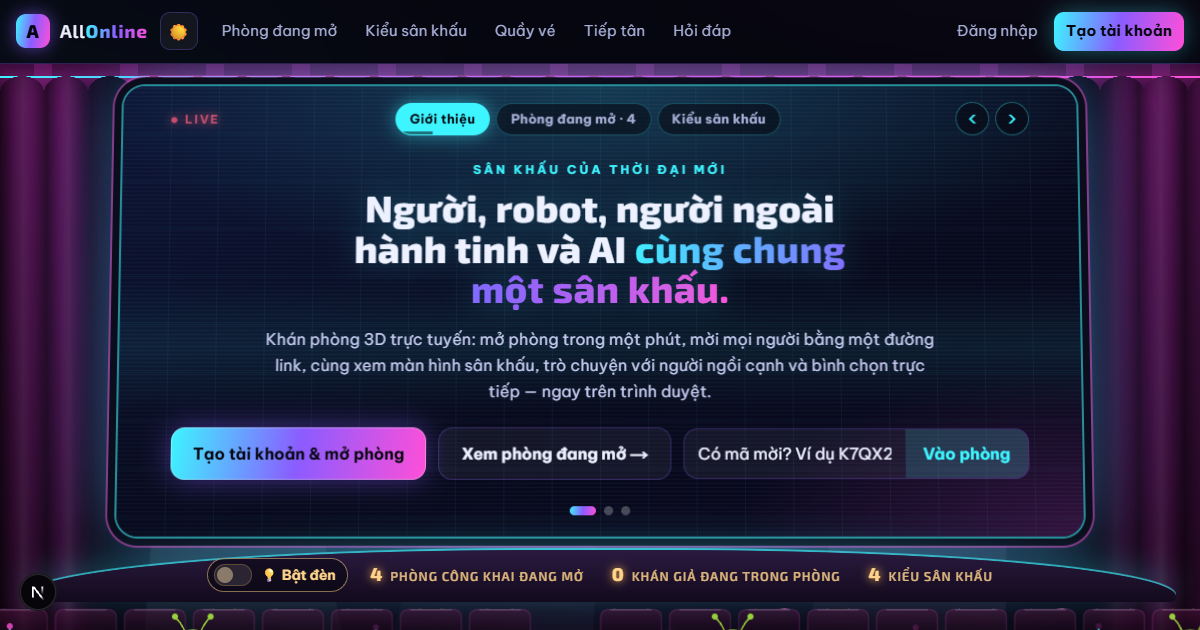
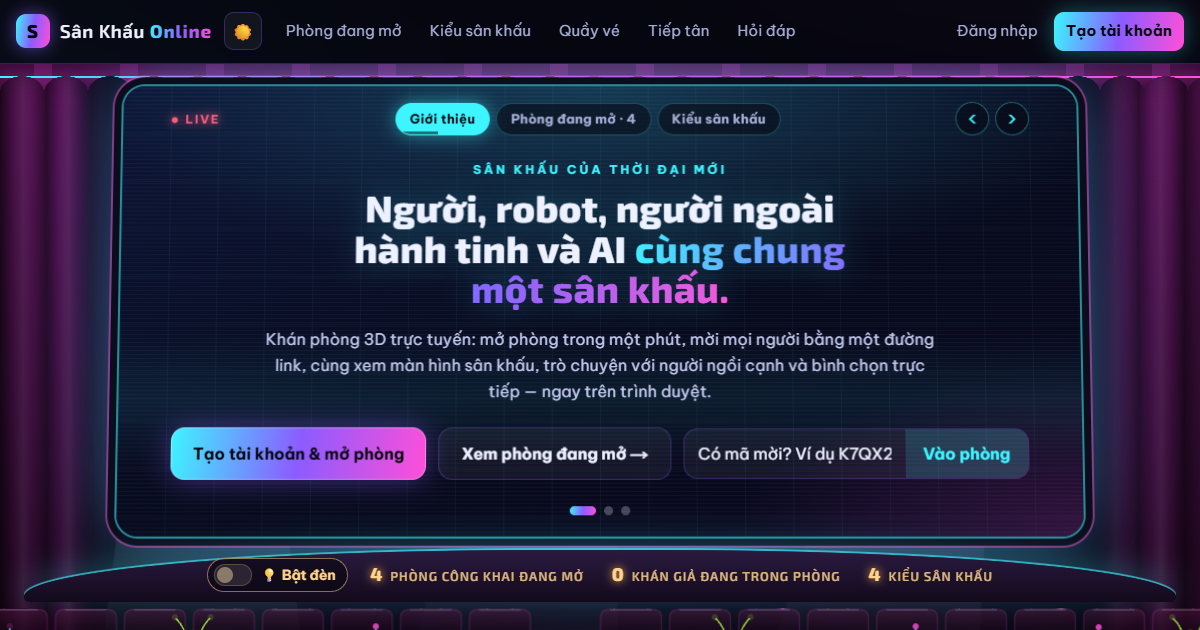
chore(brand): AllOnline → Sân Khấu Online in every user-facing text
Site name / titles / Open Graph / share image, navbar logo (S), footer, FAQ, room
creation, account and login pages, Zalo bot replies, calendar PRODID. Internal
identifiers (package, env vars, service names, storage keys, bucket) unchanged.

diff --git a/server/zalo/bot.ts b/server/zalo/bot.ts
@@ -37,7 +37,7 @@ export function parseCommand(text: string): Command {
 }
 
 const HELP = [
-  "Chào bạn, mình là trợ lý AllOnline 🤖. Nhắn một trong các lệnh:",
+  "Chào bạn, mình là trợ lý Sân Khấu Online 🤖. Nhắn một trong các lệnh:",
   "• ĐĂNG KÝ hoặc ĐĂNG NHẬP — nhận link đăng nhập (không cần mật khẩu)",
   "• LK 123456 — liên kết tài khoản trên web với Zalo (lấy mã ở trang Tài khoản)",
   "• NHẮC <mã mời> — nhắc bạn trước giờ sự kiện; HỦY NHẮC <mã mời> để bỏ",
@@ -57,7 +57,7 @@ export interface ZaloEvent {
 }
 
 /**
- * The AllOnline Zalo OA bot: sign up / sign in with a one-time link, link a web account,
+ * The Sân Khấu Online Zalo OA bot: sign up / sign in with a one-time link, link a web account,
  * event reminders, payment status, and payment screenshots (read by Claude, matched with the
  * bank feed; a screenshot alone opens a room only below the app owner's auto-approve limit).
  */
@@ -105,7 +105,7 @@ export class ZaloBot {
   async handle(e: ZaloEvent) {
     const oaUid = e.sender?.id ?? e.follower?.id;
     if (!oaUid) return;
-    if (e.event_name === "follow") return this.say(oaUid, "Cảm ơn bạn đã quan tâm AllOnline — sân khấu 3D trực tuyến!\n\n" + HELP);
+    if (e.event_name === "follow") return this.say(oaUid, "Cảm ơn bạn đã quan tâm Sân Khấu Online — sân khấu 3D trực tuyến!\n\n" + HELP);
     if (e.event_name === "user_send_text") return this.onText(oaUid, e.message?.text ?? "", e.user_id_by_app);
     if (e.event_name === "user_send_image") {
       const url = e.message?.attachments?.find((a) => a.type === "image")?.payload?.url;
@@ -144,7 +144,7 @@ export class ZaloBot {
         }
         return this.say(
           oaUid,
-          `${created ? `🎉 Đã tạo tài khoản “${user.display_name}”.` : `Chào ${user.display_name}!`}\nBấm link để đăng nhập AllOnline (dùng một lần, hết hạn sau 10 phút):\n${this.loginUrl(user.id)}`,
+          `${created ? `🎉 Đã tạo tài khoản “${user.display_name}”.` : `Chào ${user.display_name}!`}\nBấm link để đăng nhập Sân Khấu Online (dùng một lần, hết hạn sau 10 phút):\n${this.loginUrl(user.id)}`,
         );
       }
       case "link": {
@@ -152,7 +152,7 @@ export class ZaloBot {
         if (!v || v.exp < Date.now()) return this.say(oaUid, "Mã liên kết không đúng hoặc đã hết hạn. Lấy mã mới ở trang Tài khoản trên web nhé.");
         this.linkCodes.delete(cmd.code);
         await linkIdentity(db, "zalo_oa", oaUid, v.userId);
-        return this.say(oaUid, "✅ Đã liên kết Zalo với tài khoản AllOnline của bạn. Từ giờ bot sẽ nhắc sự kiện và báo thanh toán ở đây.");
+        return this.say(oaUid, "✅ Đã liên kết Zalo với tài khoản Sân Khấu Online của bạn. Từ giờ bot sẽ nhắc sự kiện và báo thanh toán ở đây.");
       }
       case "remind": {
         const user = (await this.account(oaUid, appUid)) ?? (await findOrCreateZaloUser(db, "zalo_oa", oaUid, (await this.deps.sender.profile(oaUid))?.name ?? "Người dùng Zalo")).user;

diff --git a/src/app/account/page.tsx b/src/app/account/page.tsx
@@ -101,7 +101,7 @@ function Account({ me }: { me: Me }) {
       <div className="card stack">
         <h1>Tài khoản</h1>
         {params?.get("linked") === "zalo" && <p className="notice ok">Đã liên kết Zalo.</p>}
-        {params?.get("error") === "zalo_taken" && <p className="notice error">Tài khoản Zalo này đã gắn với một tài khoản AllOnline khác.</p>}
+        {params?.get("error") === "zalo_taken" && <p className="notice error">Tài khoản Zalo này đã gắn với một tài khoản Sân Khấu Online khác.</p>}
         <form
           className="row"
           onSubmit={async (e) => {
@@ -129,7 +129,7 @@ function Account({ me }: { me: Me }) {
       <div className="card stack">
         <h2>Zalo</h2>
         <p className="muted" style={{ margin: 0 }}>
-          Liên kết Zalo để bot AllOnline nhắn tin nhắc trước giờ sự kiện, báo khi thanh toán xong, và để bạn gửi ảnh chuyển khoản cho bot.
+          Liên kết Zalo để bot Sân Khấu Online nhắn tin nhắc trước giờ sự kiện, báo khi thanh toán xong, và để bạn gửi ảnh chuyển khoản cho bot.
         </p>
         <div className="row">
           <span className={`badge ${oa ? "ok" : ""}`}>{oa ? "✓ Bot Zalo đã liên kết" : "Bot Zalo: chưa liên kết"}</span>
@@ -151,10 +151,10 @@ function Account({ me }: { me: Me }) {
                 Nhắn <b style={{ fontSize: "1.2em", letterSpacing: 2 }}>LK {code}</b> cho{" "}
                 {data?.bot ? (
                   <a href={data.bot.url} target="_blank" rel="noopener noreferrer">
-                    bot AllOnline trên Zalo
+                    bot Sân Khấu Online trên Zalo
                   </a>
                 ) : (
-                  "bot AllOnline trên Zalo"
+                  "bot Sân Khấu Online trên Zalo"
                 )}{" "}
                 trong 10 phút.
               </div>

diff --git a/src/components/home/lobby.tsx b/src/components/home/lobby.tsx
@@ -19,7 +19,7 @@ export const FAQ: { q: string; a: string }[] = [
   { q: "Phòng của tôi có hiện trên trang chủ không?", a: "Tuỳ bạn. Khi tạo phòng có ô “Hiện phòng trên trang chủ”; bật/tắt lại bất cứ lúc nào trong Phòng của tôi hoặc bảng điều khiển phòng. Phòng ẩn chỉ vào được bằng link mời." },
   { q: "Phòng mở vô thời hạn tính tiền thế nào?", a: "Bạn đặt cọc trước (mặc định 1.000.000 ₫). Phòng mở đến khi bạn tắt. Khi tắt, hệ thống tính số giờ đã mở (giờ dở tính tròn 1 giờ) × đơn giá theo sức chứa: còn dư thì hoàn lại cho bạn, thiếu thì thu thêm." },
   { q: "Một phòng chứa được bao nhiêu người?", a: "Bạn chọn số chỗ chính thức khi tạo phòng; có thể bật thêm khu chờ ngoài cổng. Người chờ được mời vào theo thứ tự khi có chỗ trống." },
-  { q: "Dùng được trên điện thoại không?", a: "Được. AllOnline chạy trên trình duyệt của máy tính, máy tính bảng và điện thoại; nút “Xem màn hình” mở riêng màn hình sân khấu toàn màn hình." },
+  { q: "Dùng được trên điện thoại không?", a: "Được. Sân Khấu Online chạy trên trình duyệt của máy tính, máy tính bảng và điện thoại; nút “Xem màn hình” mở riêng màn hình sân khấu toàn màn hình." },
 ];
 
 /** Friendly robot behind the reception desk (original SVG). */

diff --git a/src/app/page.tsx b/src/app/page.tsx
@@ -17,7 +17,7 @@ const display = Exo_2({ subsets: ["latin", "vietnamese"], weight: ["600", "800"]
 const body = Be_Vietnam_Pro({ subsets: ["latin", "vietnamese"], weight: ["400", "500", "700"], variable: "--f-body", display: "swap" });
 
 export const metadata: Metadata = {
-  title: { absolute: "AllOnline — Sân khấu 3D của tương lai | Phòng đang mở" },
+  title: { absolute: "Sân Khấu Online — Sân khấu 3D của tương lai | Phòng đang mở" },
   description: SITE_DESCRIPTION,
   alternates: { canonical: "/" },
 };
@@ -28,7 +28,7 @@ function JsonLd({ rooms }: { rooms: { name: string; inviteCode: string }[] }) {
     {
       "@context": "https://schema.org",
       "@type": "WebApplication",
-      name: "AllOnline",
+      name: "Sân Khấu Online",
       url: SITE_URL,
       applicationCategory: "MultimediaApplication",
       operatingSystem: "Web (Windows, macOS, Android, iOS)",
@@ -135,7 +135,7 @@ export default async function Home() {
 
       <footer className="foot">
         <span>
-          © {new Date().getFullYear()} AllOnline · <a href={SITE_URL}>{SITE_URL.replace(/^https?:\/\//, "")}</a>
+          © {new Date().getFullYear()} Sân Khấu Online · <a href={SITE_URL}>{SITE_URL.replace(/^https?:\/\//, "")}</a>
         </span>
         <nav aria-label="Liên kết cuối trang">
           <a href="#phong-dang-mo">Phòng đang mở</a>

diff --git a/src/app/layout.tsx b/src/app/layout.tsx
@@ -7,8 +7,8 @@ export const metadata: Metadata = {
   title: { default: SITE_NAME, template: `%s · ${SITE_SHORT}` },
   description: SITE_DESCRIPTION,
   applicationName: SITE_SHORT,
-  keywords: ["sân khấu 3D", "phòng 3D trực tuyến", "hội trường online", "rạp chiếu online", "xem chung màn hình", "sự kiện trực tuyến", "bình chọn trực tiếp", "AllOnline"],
-  openGraph: { type: "website", locale: "vi_VN", siteName: SITE_SHORT, title: SITE_NAME, description: SITE_DESCRIPTION, url: "/", images: [{ url: "/og.png", width: 1200, height: 630, alt: "Sân khấu 3D của tương lai — AllOnline" }] },
+  keywords: ["sân khấu 3D", "phòng 3D trực tuyến", "hội trường online", "rạp chiếu online", "xem chung màn hình", "sự kiện trực tuyến", "bình chọn trực tiếp", "Sân Khấu Online", "sankhau"],
+  openGraph: { type: "website", locale: "vi_VN", siteName: SITE_SHORT, title: SITE_NAME, description: SITE_DESCRIPTION, url: "/", images: [{ url: "/og.png", width: 1200, height: 630, alt: "Sân khấu 3D của tương lai — Sân Khấu Online" }] },
   twitter: { card: "summary_large_image", title: SITE_NAME, description: SITE_DESCRIPTION, images: ["/og.png"] },
   formatDetection: { telephone: false },
   // Zalo for Developers asks to verify the domain (webhook / login redirect) with this meta tag.

diff --git a/src/app/join/[code]/layout.tsx b/src/app/join/[code]/layout.tsx
@@ -18,13 +18,13 @@ export async function generateMetadata({ params }: { params: Promise<{ code: str
   const title = when ? `${m.name} — ${when}` : m.name;
   const description =
     (m.description ? m.description.slice(0, 160) + " · " : "") +
-    `${MAP_INFO[m.map].name} 3D trên AllOnline${m.ownerName ? `, tổ chức bởi ${m.ownerName}` : ""}. Vào bằng trình duyệt, không cần cài đặt.`;
+    `${MAP_INFO[m.map].name} 3D trên Sân Khấu Online${m.ownerName ? `, tổ chức bởi ${m.ownerName}` : ""}. Vào bằng trình duyệt, không cần cài đặt.`;
   return {
     title,
     description,
     alternates: { canonical: `/join/${code}` },
     robots: m.isPublic ? undefined : { index: false, follow: false },
-    openGraph: { title, description, type: "website", url: `/join/${code}`, locale: "vi_VN", siteName: "AllOnline" },
+    openGraph: { title, description, type: "website", url: `/join/${code}`, locale: "vi_VN", siteName: "Sân Khấu Online" },
     twitter: { card: "summary_large_image", title, description },
   };
 }

diff --git a/src/app/login/page.tsx b/src/app/login/page.tsx
@@ -98,7 +98,7 @@ function RealLogin() {
   );
 }
 
-/** Zalo: "Đăng nhập bằng Zalo" (Zalo Login) and/or chatting "ĐĂNG KÝ" with the AllOnline OA bot. */
+/** Zalo: "Đăng nhập bằng Zalo" (Zalo Login) and/or chatting "ĐĂNG KÝ" with the Sân Khấu Online OA bot. */
 function ZaloOptions() {
   const { data } = useApi<{ zaloLogin: boolean; zaloBot: { url: string } | null }>("/api/catalog");
   const err = typeof window !== "undefined" ? new URLSearchParams(window.location.search).get("error") : null;
@@ -122,7 +122,7 @@ function ZaloOptions() {
         <p className="muted" style={{ margin: 0 }}>
           Hoặc nhắn <b>ĐĂNG KÝ</b> cho{" "}
           <a href={data.zaloBot.url} target="_blank" rel="noopener noreferrer">
-            bot AllOnline trên Zalo
+            bot Sân Khấu Online trên Zalo
           </a>
           : bot tạo tài khoản, gửi link đăng nhập một chạm và nhắc bạn trước mỗi sự kiện.
         </p>

diff --git a/src/app/join/[code]/opengraph-image.tsx b/src/app/join/[code]/opengraph-image.tsx
@@ -6,7 +6,7 @@ import { MAP_INFO } from "@/core/maps";
 import { getInviteMeta } from "@/lib/home-data";
 import { vnEventTime } from "@/lib/vn-time";
 
-export const alt = "Sự kiện trên AllOnline — sân khấu 3D";
+export const alt = "Sự kiện trên Sân Khấu Online — sân khấu 3D";
 export const size = { width: 1200, height: 630 };
 export const contentType = "image/png";
 
@@ -37,7 +37,7 @@ export default async function Image({ params }: { params: Promise<{ code: string
       >
         <div style={{ display: "flex", alignItems: "center", gap: 16, fontSize: 30 }}>
           <div style={{ width: 52, height: 52, borderRadius: 14, background: "linear-gradient(135deg,#3df5ff,#8b5cff 50%,#ff4fd8)", display: "flex" }} />
-          <span>AllOnline · Sân khấu 3D</span>
+          <span>Sân Khấu Online · 3D</span>
         </div>
         <div style={{ display: "flex", flexDirection: "column", gap: 22 }}>
           {when && (

diff --git a/src/lib/site.ts b/src/lib/site.ts
@@ -1,6 +1,6 @@
 /** Public site identity (SEO: canonical URLs, Open Graph, sitemap). */
 export const SITE_URL = (process.env.PUBLIC_ORIGIN || "https://sankhau.pro.vn").replace(/\/+$/, "");
-export const SITE_NAME = "AllOnline — Sân khấu 3D";
-export const SITE_SHORT = "AllOnline";
+export const SITE_NAME = "Sân Khấu Online — Sân khấu 3D trực tuyến";
+export const SITE_SHORT = "Sân Khấu Online";
 export const SITE_DESCRIPTION =
   "Sân khấu 3D trực tuyến của thời đại mới: mở phòng hội trường, rạp chiếu, khu bàn cho người, robot hay người ngoài hành tinh cùng xem một màn hình chung, chat với người ngồi gần và bình chọn trực tiếp — ngay trên trình duyệt máy tính, máy tính bảng và điện thoại.";

diff --git a/src/components/home/stage-slides.tsx b/src/components/home/stage-slides.tsx
@@ -193,7 +193,7 @@ export function StageSlides({ intro, initialRooms, maps }: { intro: ReactNode; i
             {(Object.keys(MAP_INFO) as MapCode[]).map((m) => (
               <article key={m} className={`st-type ${maps.includes(m) ? "" : "off"}`}>
                 {/* eslint-disable-next-line @next/next/no-img-element -- static webp preview */}
-                <img src={`/maps/${m}.webp`} alt={`Ảnh ${MAP_INFO[m].name} trong AllOnline`} loading="lazy" width={480} height={300} />
+                <img src={`/maps/${m}.webp`} alt={`Ảnh ${MAP_INFO[m].name} trong Sân Khấu Online`} loading="lazy" width={480} height={300} />
                 <h3>{MAP_INFO[m].name}</h3>
                 <p className="st-type-tag">{STAGE_COPY[m].tag}</p>
                 <p>{STAGE_COPY[m].fit}</p>

diff --git a/src/app/rooms/new/page.tsx b/src/app/rooms/new/page.tsx
@@ -170,7 +170,7 @@ function CreateRoomForm({ catalog }: { catalog: Catalog }) {
           </div>
         </div>
         <label className="check">
-          <input type="checkbox" checked={isPublic} onChange={(e) => setIsPublic(e.target.checked)} /> Hiện phòng trên trang chủ AllOnline (ai cũng thấy và bấm vào được; đổi lại bất cứ lúc nào)
+          <input type="checkbox" checked={isPublic} onChange={(e) => setIsPublic(e.target.checked)} /> Hiện phòng trên trang chủ Sân Khấu Online (ai cũng thấy và bấm vào được; đổi lại bất cứ lúc nào)
         </label>
         <div className="field">
           Kiểu sân khấu <small>(đổi được bất cứ lúc nào trong phòng)</small>

diff --git a/server/index.ts b/server/index.ts
@@ -155,7 +155,7 @@ async function main() {
   });
 
   const onListen = () => {
-    console.log(`> AllOnline ${cfg.mode === "demo" ? "[CHẾ ĐỘ DEMO — PGlite cục bộ, đăng nhập demo, thanh toán giả]" : "[Supabase]"} http://${cfg.host ?? "localhost"}:${cfg.port}`);
+    console.log(`> Sân Khấu Online ${cfg.mode === "demo" ? "[CHẾ ĐỘ DEMO — PGlite cục bộ, đăng nhập demo, thanh toán giả]" : "[Supabase]"} http://${cfg.host ?? "localhost"}:${cfg.port}`);
   };
   if (cfg.host) server.listen(cfg.port, cfg.host, onListen);
   else server.listen(cfg.port, onListen);
